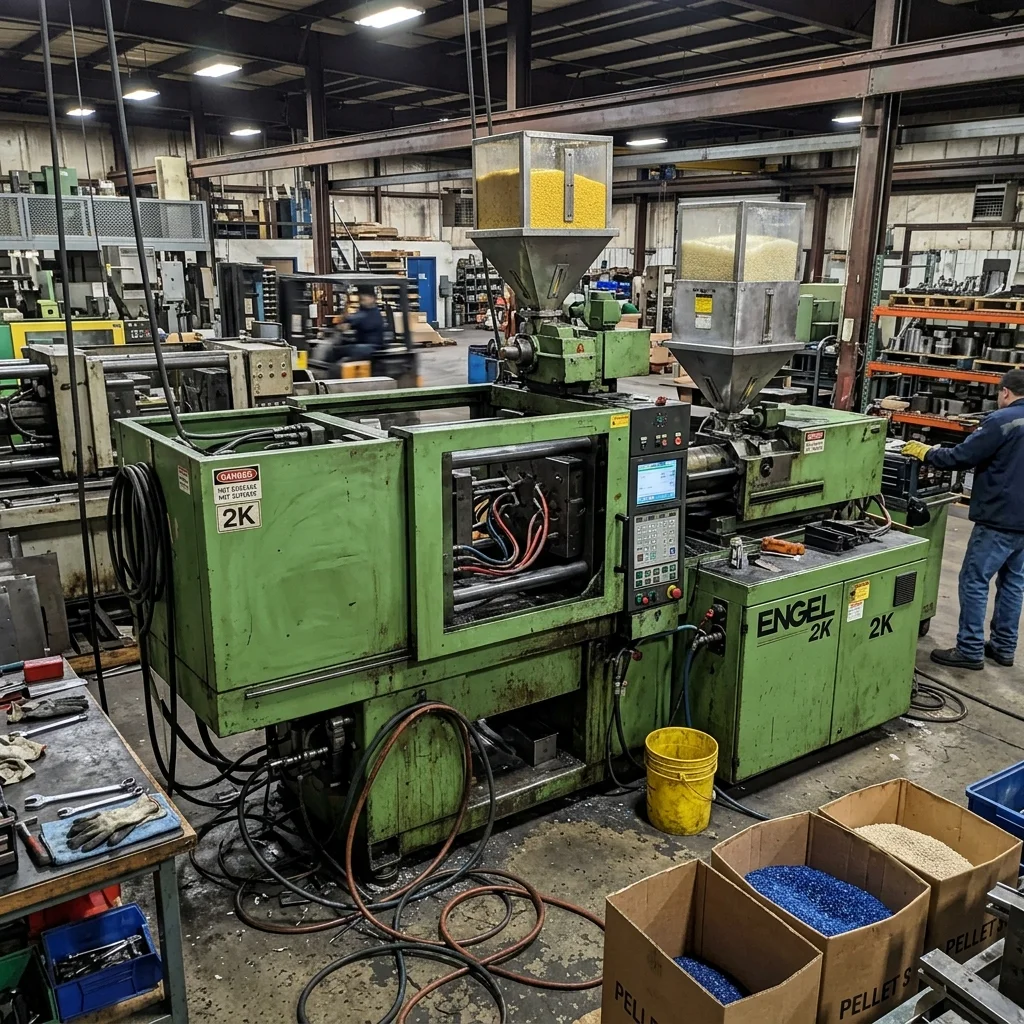
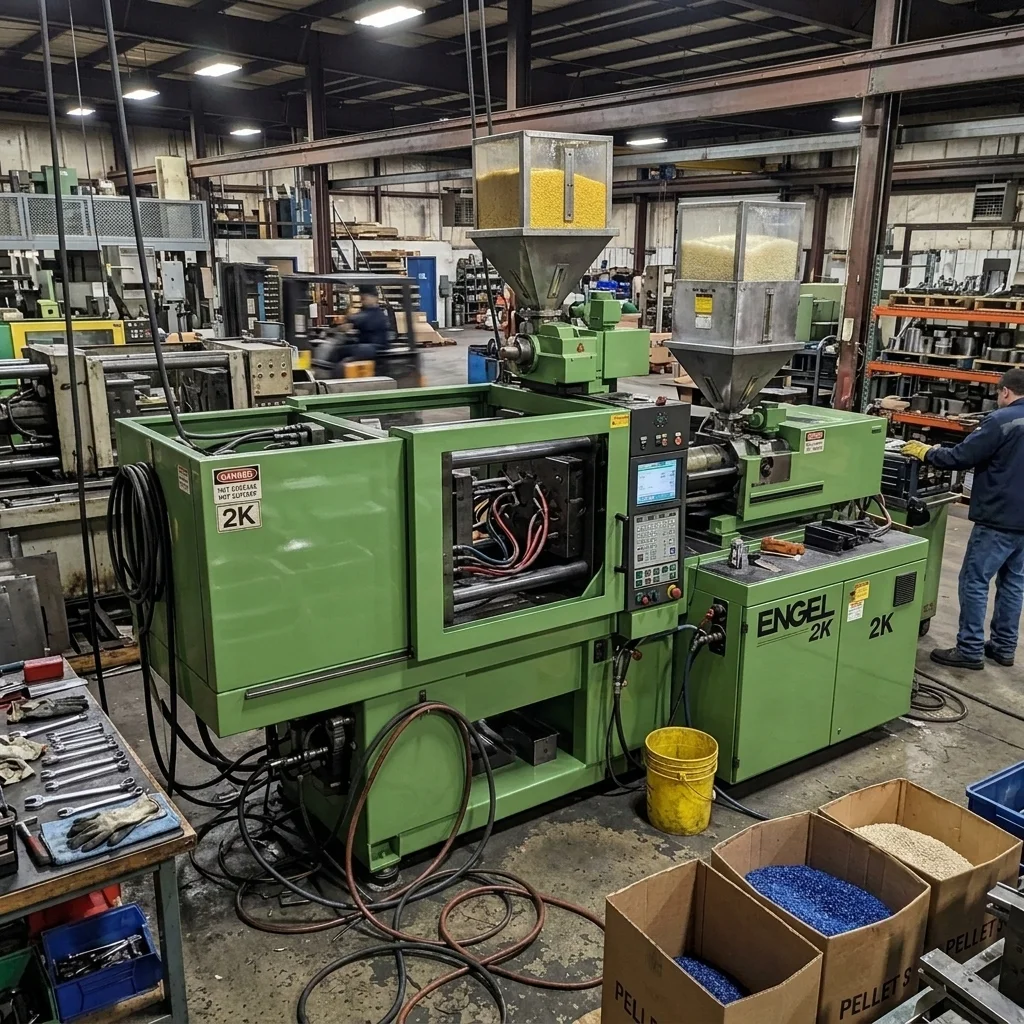
Optimize updated images and bump cache versions

diff --git a/resources/views/components/layouts/app.blade.php b/resources/views/components/layouts/app.blade.php
@@ -39,7 +39,7 @@
     <meta property="og:title" content="{{ $title ?? ($currentLocale === 'en' ? 'EuroMould - Plastic Injection Moulding Technologies' : 'EuroMould - Plastik Enjeksiyon Kalıp Teknolojileri') }}">
     <meta property="og:description" content="{{ $metaDescription ?? ($currentLocale === 'en' ? 'EuroMould provides high-precision plastic injection moulding, mould design, maintenance and engineering solutions with 15 years of industry experience.' : 'EuroMould, 15 yıllık tecrübesiyle yüksek hassasiyetli plastik enjeksiyon kalıp imalatı, kalıp tasarımı, bakım ve mühendislik çözümleri sunar.') }}">
     <meta property="og:site_name" content="EuroMould">
-    <meta property="og:image" content="{{ asset('images/logo.png') . "?v=4" }}">
+    <meta property="og:image" content="{{ asset('images/logo.png') . "?v=5" }}">
     <meta property="og:image:width" content="1200">
     <meta property="og:image:height" content="630">
 
@@ -47,7 +47,7 @@
     <meta name="twitter:card" content="summary_large_image">
     <meta name="twitter:title" content="{{ $title ?? 'EuroMould' }}">
     <meta name="twitter:description" content="{{ $metaDescription ?? ($currentLocale === 'en' ? 'High-precision plastic injection moulding & engineering solutions.' : 'Yüksek hassasiyetli plastik enjeksiyon kalıp imalatı ve mühendislik çözümleri.') }}">
-    <meta name="twitter:image" content="{{ asset('images/logo.png') . "?v=4" }}">
+    <meta name="twitter:image" content="{{ asset('images/logo.png') . "?v=5" }}">
 
     <!-- Schema.org Structured Data (JSON-LD) -->
     <script type="application/ld+json">
@@ -57,7 +57,7 @@
       "name": "EuroMould",
       "legalName": "EuroMould Plastik Enjeksiyon & Kalıp Teknolojileri",
       "url": "https://euromould.com.tr",
-      "logo": "{{ asset('images/logo.png') . "?v=4" }}",
+      "logo": "{{ asset('images/logo.png') . "?v=5" }}",
       "description": "{{ $currentLocale === 'en' ? 'High-precision plastic injection moulding, mould design and engineering solutions.' : 'Yüksek hassasiyetli plastik enjeksiyon kalıp imalatı, kalıp tasarımı ve mühendislik çözümleri.' }}",
       "address": {
         "@type": "PostalAddress",
@@ -125,7 +125,7 @@
                     <div class="flex-shrink-0 flex items-center">
                         <a href="{{ localized_url('/') }}" class="flex items-center gap-3">
                              @if(isset($settings) && $settings->logo)
-                                <img class="h-12 w-auto" width="1856" height="438" src="{{ asset($settings->logo) . "?v=4" }}" alt="EuroMould">
+                                <img class="h-12 w-auto" width="1856" height="438" src="{{ asset($settings->logo) . "?v=5" }}" alt="EuroMould">
                             @else
                                 <span class="text-3xl font-black tracking-tighter text-slate-900">EURO<span class="text-primary">MOULD</span></span>
                             @endif
@@ -239,7 +239,7 @@
                 <!-- Brand (Full width on mobile) -->
                 <div class="col-span-2 md:col-span-2 lg:col-span-1 flex flex-col items-center md:items-start lg:items-center text-center md:text-left">
                      <div class="mb-6">
-                         <img class="h-24 w-auto" width="897" height="696" src="{{ asset('images/logo.webp') . "?v=4" }}" alt="EuroMould">
+                         <img class="h-24 w-auto" width="897" height="696" src="{{ asset('images/logo.webp') . "?v=5" }}" alt="EuroMould">
                      </div>
                      <p class="text-slate-400 text-sm leading-relaxed mb-6">
                          {{ __('Plastik enjeksiyon kalıp imalatında 15 yıllık tecrübe, ileri teknoloji ve mühendislik tutkusuyla endüstriyel çözümler sunuyoruz.') }}

diff --git a/resources/views/blocks/content_with_image.blade.php b/resources/views/blocks/content_with_image.blade.php
@@ -64,7 +64,7 @@
                         <!-- Cover Image & Play Button -->
                         <div x-show="!playing" class="absolute inset-0 z-10 pointer-events-none">
                             <!-- Cover Image -->
-                            <img src="/images/video_cover.webp?v=4" alt="Video Cover" class="w-full h-full object-cover opacity-80 group-hover:opacity-70 transition-opacity duration-500">
+                            <img src="/images/video_cover.webp?v=5" alt="Video Cover" class="w-full h-full object-cover opacity-80 group-hover:opacity-70 transition-opacity duration-500">
                             
                             <!-- Overlay Gradient -->
                             <div class="absolute inset-0 bg-gradient-to-t from-slate-900/80 via-transparent to-transparent"></div>
@@ -106,7 +106,7 @@
                     <!-- Standard Image Mode -->
                     <div class="relative h-[300px] md:h-[500px] w-full shadow-lg border border-slate-100 rounded-lg overflow-hidden">
                         @if(isset($data['image']))
-                            <img src="/{{ $data['image'] }}?v=4" alt="{{ __($data['title'] ?? '') }}" class="w-full h-full object-cover">
+                            <img src="/{{ $data['image'] }}?v=5" alt="{{ __($data['title'] ?? '') }}" class="w-full h-full object-cover">
                         @else
                             <div class="w-full h-full bg-slate-200 flex items-center justify-center text-slate-400">
                                 <svg class="w-16 h-16" fill="none" viewBox="0 0 24 24" stroke="currentColor"><path stroke-linecap="round" stroke-linejoin="round" stroke-width="1.5" d="M4 16l4.586-4.586a2 2 0 012.828 0L16 16m-2-2l1.586-1.586a2 2 0 012.828 0L20 14m-6-6h.01M6 20h12a2 2 0 002-2V6a2 2 0 00-2-2H6a2 2 0 00-2 2v12a2 2 0 002 2z" /></svg>

diff --git a/resources/views/blocks/services_list.blade.php b/resources/views/blocks/services_list.blade.php
@@ -18,7 +18,7 @@
                 <a href="{{ localized_url('/teklif-al') }}" class="group flex flex-col h-full bg-slate-50 border border-slate-100 hover:border-slate-300 transition-all duration-300">
                     <div class="relative h-64 overflow-hidden flex-shrink-0">
                         @if($service->image)
-                            <img src="/{{ $service->image }}?v=4" alt="{{ __($service->getTranslated('title')) }}" class="w-full h-full object-cover">
+                            <img src="/{{ $service->image }}?v=5" alt="{{ __($service->getTranslated('title')) }}" class="w-full h-full object-cover">
                         @else
                             <div class="w-full h-full bg-slate-200 flex items-center justify-center text-slate-400">
                                 <svg class="w-12 h-12" fill="none" viewBox="0 0 24 24" stroke="currentColor"><path stroke-linecap="round" stroke-linejoin="round" stroke-width="1.5" d="M4 16l4.586-4.586a2 2 0 012.828 0L16 16m-2-2l1.586-1.586a2 2 0 012.828 0L20 14m-6-6h.01M6 20h12a2 2 0 002-2V6a2 2 0 00-2 2v12a2 2 0 002 2z" /></svg>

diff --git a/resources/views/blocks/gallery_grid.blade.php b/resources/views/blocks/gallery_grid.blade.php
@@ -13,7 +13,7 @@
         <div class="grid grid-cols-2 md:grid-cols-3 lg:grid-cols-4 gap-3 md:gap-6">
             @foreach($items as $item)
                 <div class="relative aspect-square group overflow-hidden rounded-2xl cursor-pointer shadow-lg shadow-slate-200/50">
-                    <img src="/{{ $item->image }}?v=4" alt="{{ __($item->title ?? '') }}" class="w-full h-full object-cover transition-transform duration-700 group-hover:scale-110 ease-in-out">
+                    <img src="/{{ $item->image }}?v=5" alt="{{ __($item->title ?? '') }}" class="w-full h-full object-cover transition-transform duration-700 group-hover:scale-110 ease-in-out">
                     <div class="absolute inset-0 bg-slate-900/60 opacity-0 group-hover:opacity-100 transition-opacity duration-300 flex items-center justify-center p-6 backdrop-blur-sm">
                         @if($item->title)
                             <h3 class="text-white font-bold text-center translate-y-4 group-hover:translate-y-0 transition-transform duration-300 text-lg">{{ __($item->title) }}</h3>

diff --git a/resources/views/blocks/hero.blade.php b/resources/views/blocks/hero.blade.php
@@ -4,10 +4,10 @@
     <div class="absolute inset-0 z-0 select-none">
         @if(isset($data['bg_video']))
             <video aria-hidden="true" autoplay loop muted playsinline class="w-full h-full object-cover opacity-60">
-                <source src="/{{ $data['bg_video'] }}?v=4" type="video/mp4">
+                <source src="/{{ $data['bg_video'] }}?v=5" type="video/mp4">
             </video>
         @elseif(isset($data['bg_image']))
-            <img src="/{{ $data['bg_image'] }}?v=4" alt="{{ $data['title'] ?? '' }}" class="w-full h-full object-cover opacity-60">
+            <img src="/{{ $data['bg_image'] }}?v=5" alt="{{ $data['title'] ?? '' }}" class="w-full h-full object-cover opacity-60">
         @else
             <div class="w-full h-full bg-slate-800"></div>
         @endif

diff --git a/resources/views/blocks/page_header.blade.php b/resources/views/blocks/page_header.blade.php
@@ -3,7 +3,7 @@
     <!-- Background -->
     @if(isset($data['bg_image']))
         <div class="absolute inset-0 z-0">
-            <img src="/{{ $data['bg_image'] }}?v=4" alt="{{ $data['title'] ?? '' }}" class="w-full h-full object-cover opacity-30">
+            <img src="/{{ $data['bg_image'] }}?v=5" alt="{{ $data['title'] ?? '' }}" class="w-full h-full object-cover opacity-30">
         </div>
     @endif
     <!-- Gradient & Overlay -->

diff --git a/resources/views/service_detail.blade.php b/resources/views/service_detail.blade.php
@@ -8,7 +8,7 @@
             
             @if($service->image)
                 <div class="mb-12 rounded-xl overflow-hidden shadow-lg">
-                    <img src="/{{ $service->image }}?v=4" alt="{{ __($service->getTranslated('title')) }}" class="w-full h-auto">
+                    <img src="/{{ $service->image }}?v=5" alt="{{ __($service->getTranslated('title')) }}" class="w-full h-auto">
                 </div>
             @endif
 
